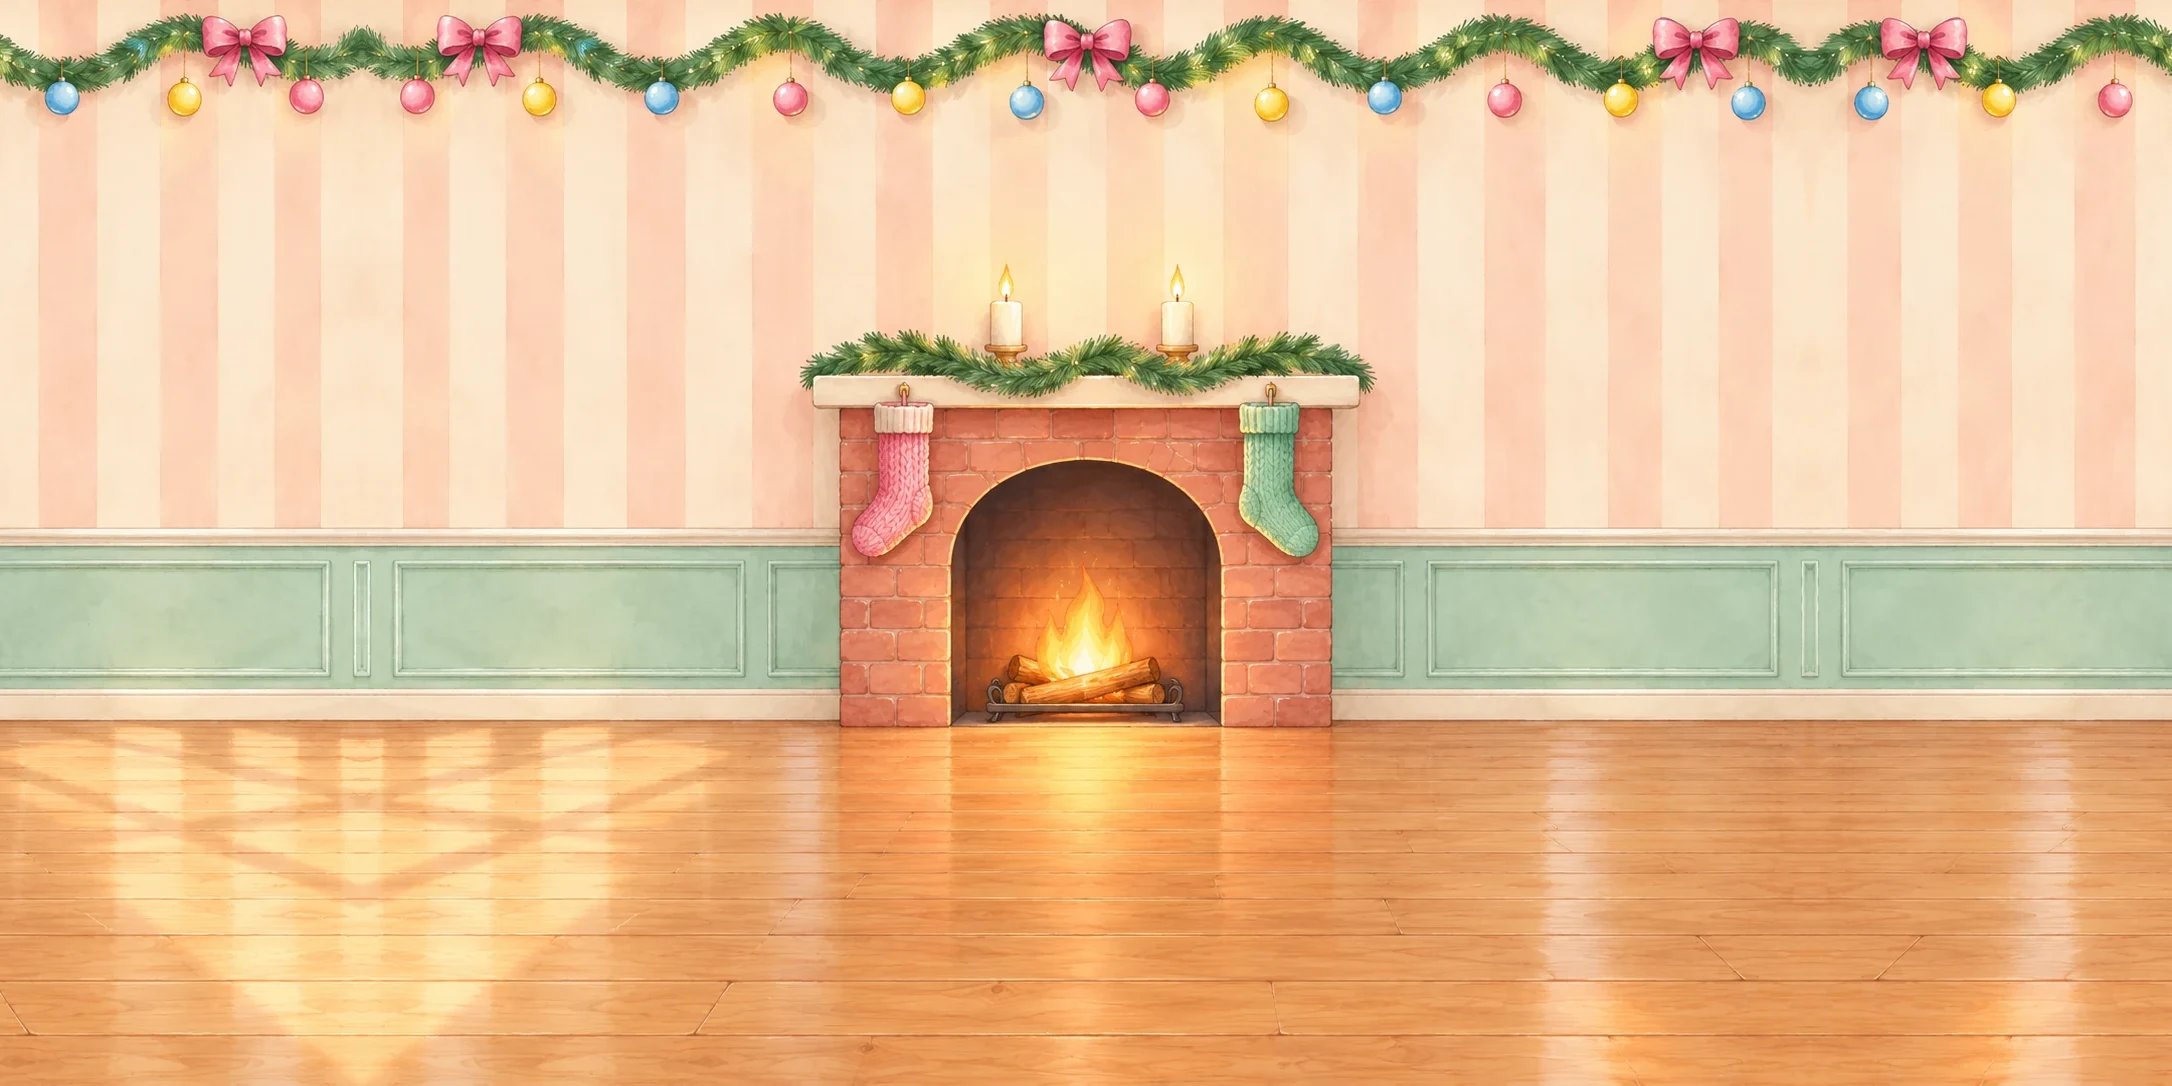
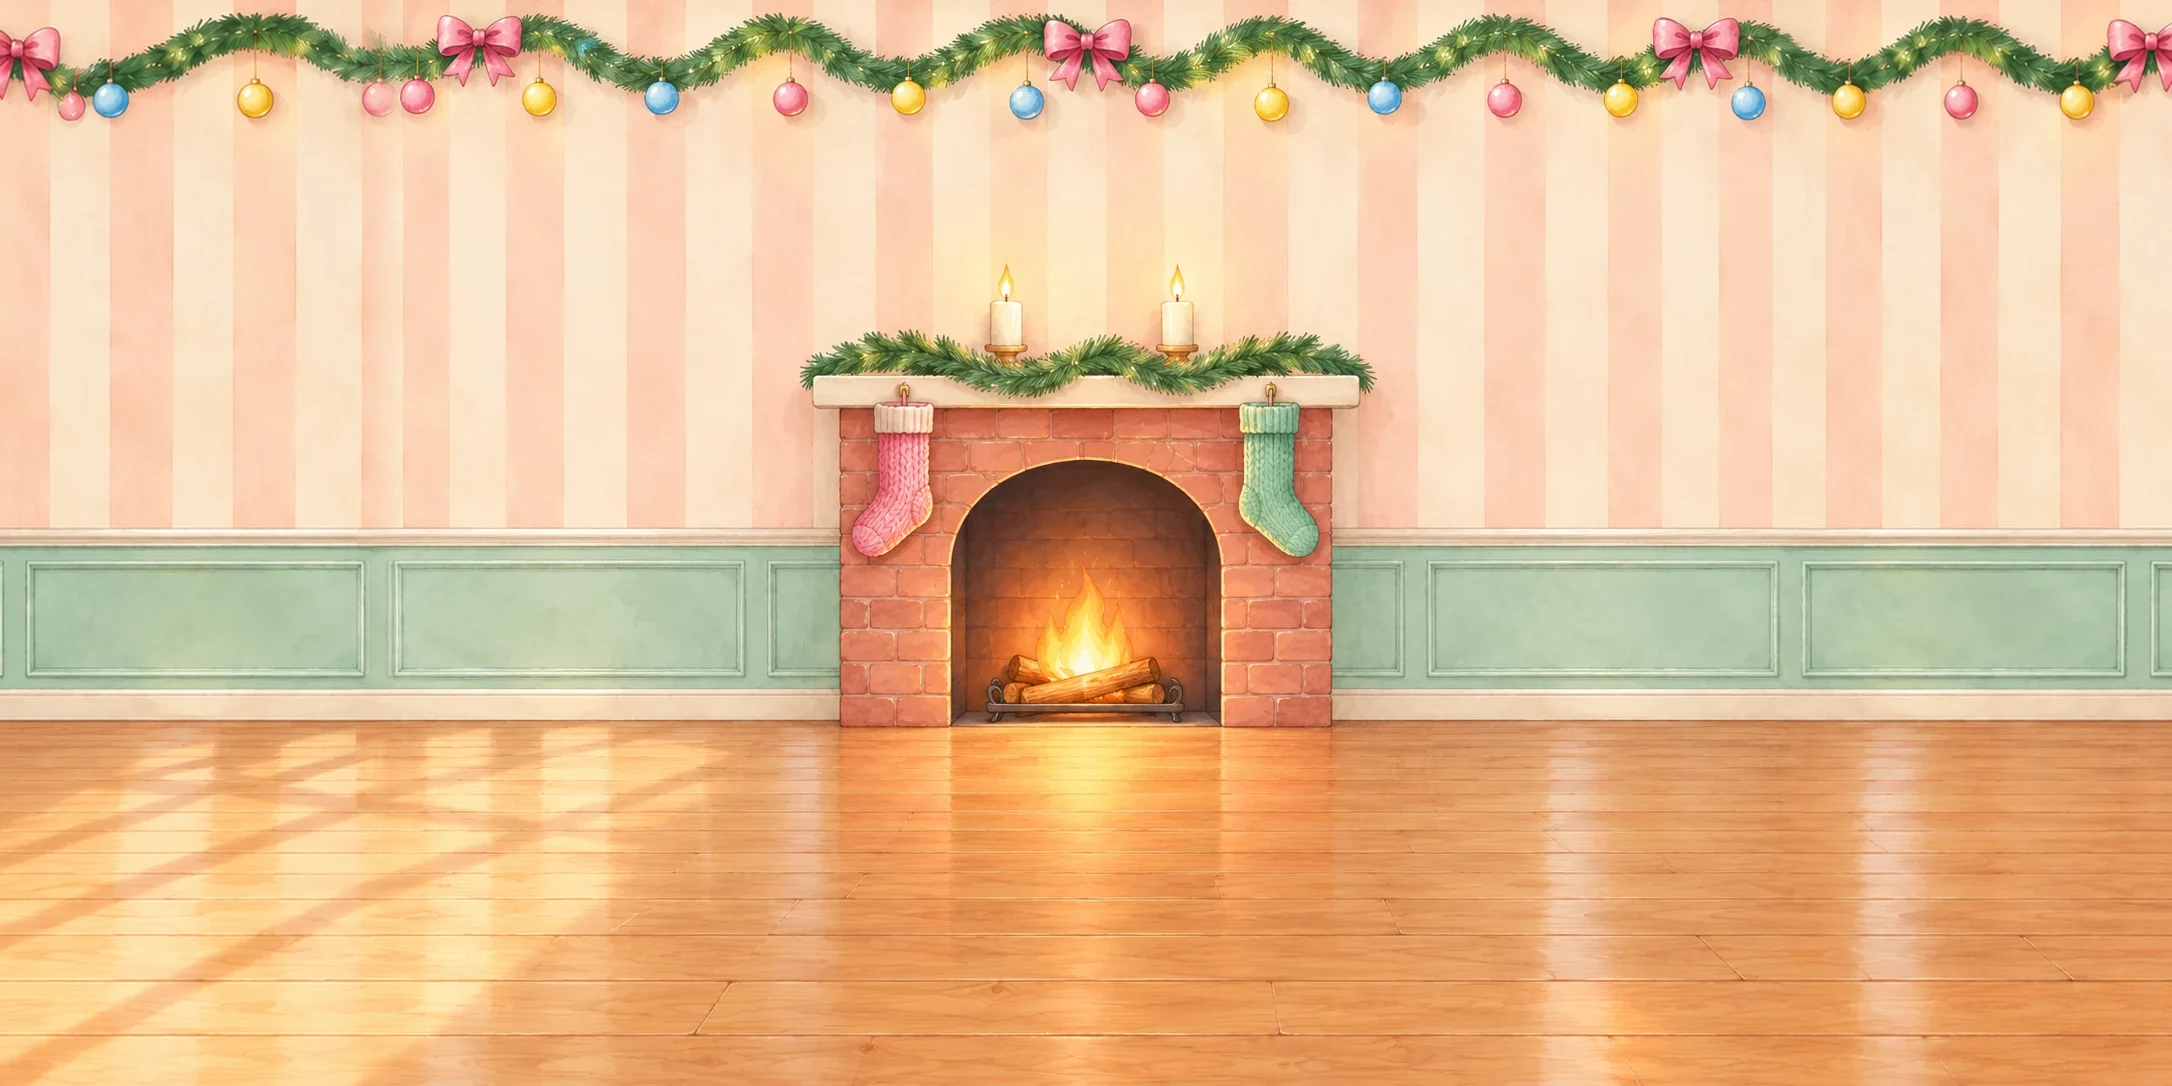
背景の 左右を GPT-Images 2.5 で 描き足す (#17)
- 背景7枚の 左右（横 2:1 の はしの 部分）を、折りかえした 仮の 絵から、自然に つながる 描き足しに かえる
- まんなかの 4:3 は もとの 絵の まま（ゲームの 部品の 位置は かわらない）。さかい目は 40px で ぼかして つなぐ

diff --git a/sw.js b/sw.js
@@ -4,16 +4,16 @@
  * ・新しい版が公開されると、次に開いたときに、変わったファイルだけを受け取って入れかわる。
  * 下の VERSION と FILES は tools/build.py が自動で書きかえるので、手で直さなくてよい。 */
 /* @@FILES-BEGIN */
-const VERSION = '7c1f39c60d';
+const VERSION = '1246aed5b5';
 const FILES = [
   ["index.html", "0a4105bcc8"],
-  ["assets/backgrounds/bg_bath.webp", "f11f455a0e"],
-  ["assets/backgrounds/bg_christmas.webp", "90d05114cc"],
-  ["assets/backgrounds/bg_festival.webp", "8426de0008"],
-  ["assets/backgrounds/bg_halloween.webp", "1430480079"],
-  ["assets/backgrounds/bg_nyuhome.webp", "b16416425d"],
-  ["assets/backgrounds/bg_room_day.webp", "862d190e55"],
-  ["assets/backgrounds/bg_room_night.webp", "b683e940b5"],
+  ["assets/backgrounds/bg_bath.webp", "a8f16562af"],
+  ["assets/backgrounds/bg_christmas.webp", "eefca7c9e3"],
+  ["assets/backgrounds/bg_festival.webp", "2b6b21f166"],
+  ["assets/backgrounds/bg_halloween.webp", "c316a63603"],
+  ["assets/backgrounds/bg_nyuhome.webp", "0a5a28fc62"],
+  ["assets/backgrounds/bg_room_day.webp", "cb82a65d64"],
+  ["assets/backgrounds/bg_room_night.webp", "01f916555a"],
   ["assets/characters/nya_act_bath_fluffy.png", "81401cdcec"],
   ["assets/characters/nya_act_bath_foam.png", "fdbed4afb1"],
   ["assets/characters/nya_act_eat.png", "f029eafb01"],
